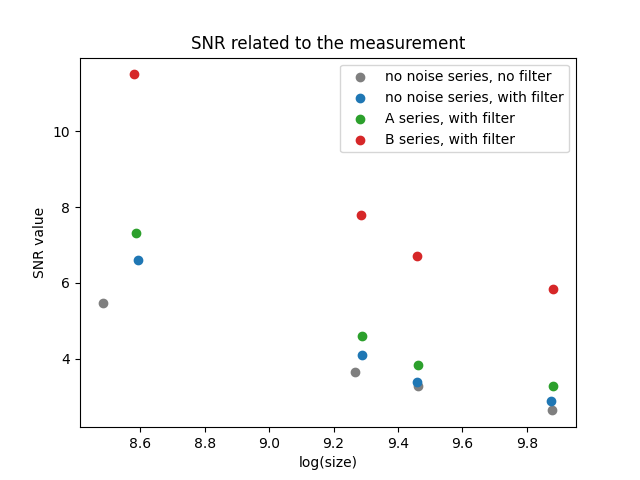
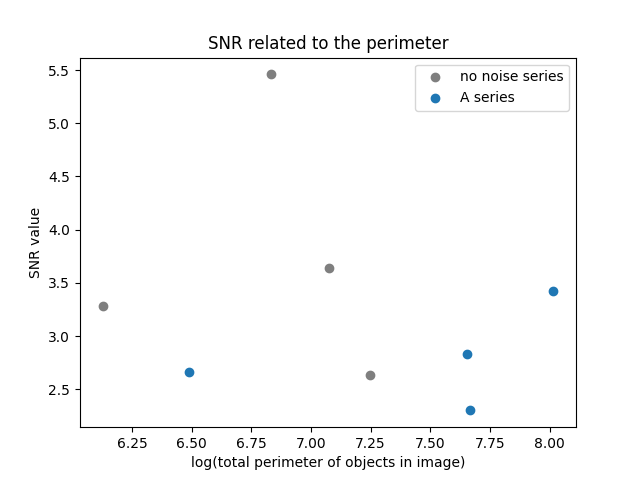
code will plot snr and measurement

diff --git a/rosa/asm2.py b/rosa/asm2.py
@@ -20,18 +20,18 @@ def measure_conv_and_solid(img):
     # Segment image
     segm_img = img < threshold_value
 
-    UtilFunctions.show_image_in_dip_view(segm_img, 4)
+    #UtilFunctions.show_image_in_dip_view(segm_img, 4)
 
     # Label segmented objects
     segm_img = dip.Label(segm_img)
 
     # Get measurements
     measurements = dip.MeasurementTool.Measure(segm_img, img, ['Size', 'Solidity', 'Convexity'])
-    print(measurements)
 
     sizes = []
     convexity = []
     solidity = []
+    perimeters = []
 
     # Only save the measurement values of the actual objects; filter out the irrelevant objects and their measurements
     for object in np.array(measurements):
@@ -39,8 +39,9 @@ def measure_conv_and_solid(img):
             sizes.append(object[0])
             convexity.append(object[2])
             solidity.append(object[1])
+            perimeters.append(object[4])
 
-    return sizes, convexity, solidity
+    return sizes, convexity, solidity, perimeters
 
 
 def measure_size_and_perimeter(img):
@@ -81,12 +82,12 @@ def plot_relative_discretization_error(mean_array, std_array, label, img_series)
     fig.savefig("../plot_output/" + label + "_" + img_series)
 
 
-def plot_snr_measurements(sizes, snr_values):
-    labels = ['no noise series, no filter', 'no noise series, with filter', 'A series, with filter', 'B series, with filter']
-    colors = ['tab:gray', 'tab:blue', 'tab:green', 'tab:red']
+def plot_snr_measurements(sizes, snr_values, image_names):
+    labels = ['no noise series', 'A series']
+    colors = ['tab:gray', 'tab:blue']
 
-    sizes_per_series = [sizes[0:4], sizes[4:8], sizes[8:12], sizes[12:16]]
-    snr_per_series = [snr_values[0:4], snr_values[4:8], snr_values[8:12], snr_values[12:16]]
+    sizes_per_series = [sizes[0:4], sizes[4:8]]
+    snr_per_series = [snr_values[0:4], snr_values[4:8]]
     fig, ax = plt.subplots()
 
     for i in range(len(sizes_per_series)):
@@ -100,9 +101,9 @@ def plot_snr_measurements(sizes, snr_values):
 
     ax.legend()
 
-    ax.set(xlabel='log(size)',
+    ax.set(xlabel='log(total perimeter of objects in image)',
            ylabel='SNR value',
-           title='SNR related to the measurement')
+           title='SNR related to the perimeter')
     fig.savefig("../plot_output/snr_plot")
 
 
@@ -110,9 +111,11 @@ if __name__ == '__main__':
     sleep_sec: int = 3
 
     # Which images are going to be analysed?
-    image_name_list: list = ["rect4a"]
+    image_name_list: list = ["rect1", "rect2", "rect3", "rect4", "rect1a", "rect2a", "rect3a", "rect4a"]
 
     snr_values = []
+    sum_sizes = []
+    sum_perimeters = []
 
     for image_name in image_name_list:
         # Load image
@@ -128,14 +131,25 @@ if __name__ == '__main__':
         snr_values.append(snr)
 
         # Calculate convexity and solidity
-        sizes, convexity, solidity = measure_conv_and_solid(curr_img)
+        sizes, convexity, solidity, perimeters = measure_conv_and_solid(curr_img)
 
         # Every entry in array corresponds to one object in image
         print('Sizes of ', image_name, ': ', sizes)
+        print('Perimeters of ', image_name, ': ', perimeters)
         print('Convexity of ', image_name, ': ', convexity)
         print('Solidity of ', image_name, ': ', solidity)
 
-    print(snr_values)
+        #norm_convexity_value = sum(convexity) / len(convexity)
+        #norm_convexity.append(norm_convexity_value)
+
+        sum_sizes.append(sum(sizes))
+        sum_perimeters.append(sum(perimeters))
+
+
+    #print(norm_convexity)
+    #print(sum_sizes)
+
+    plot_snr_measurements(sum_perimeters, snr_values, image_name_list)
 
 
     '''
